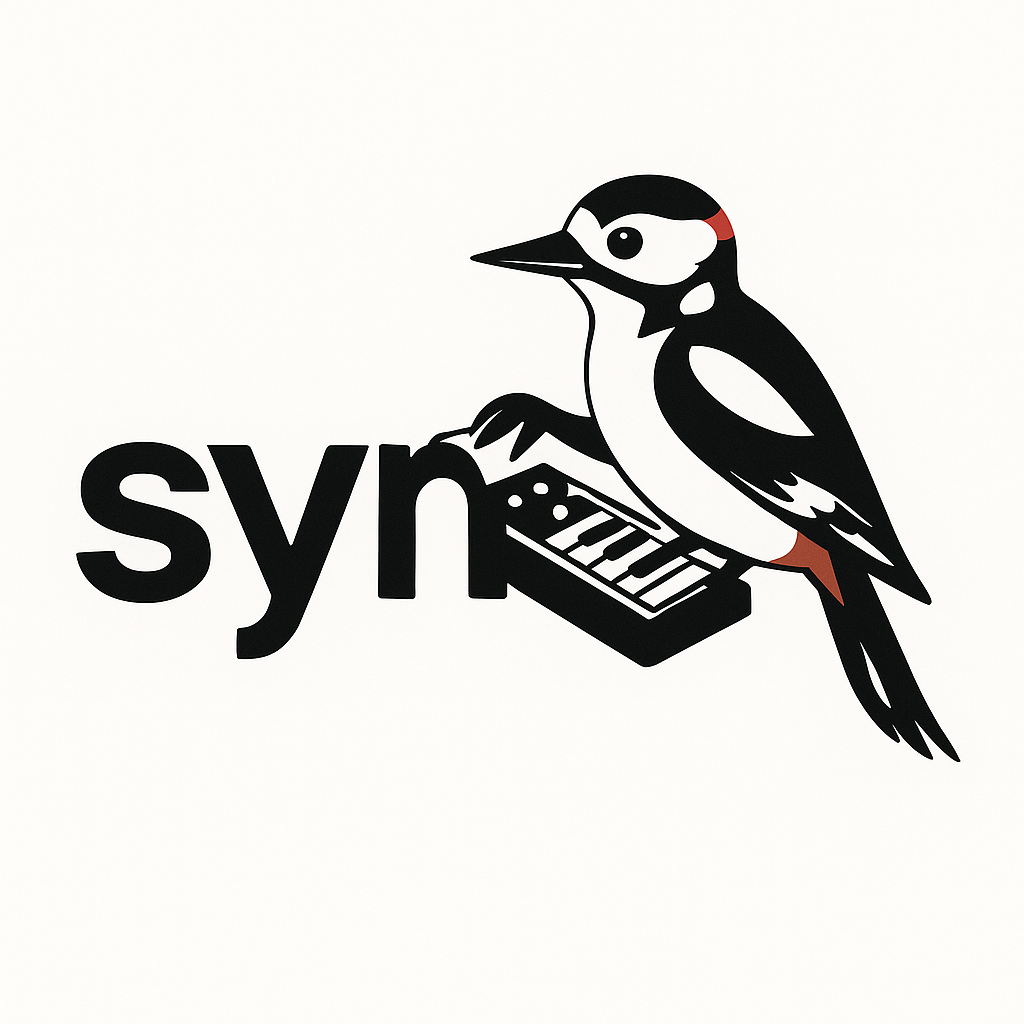
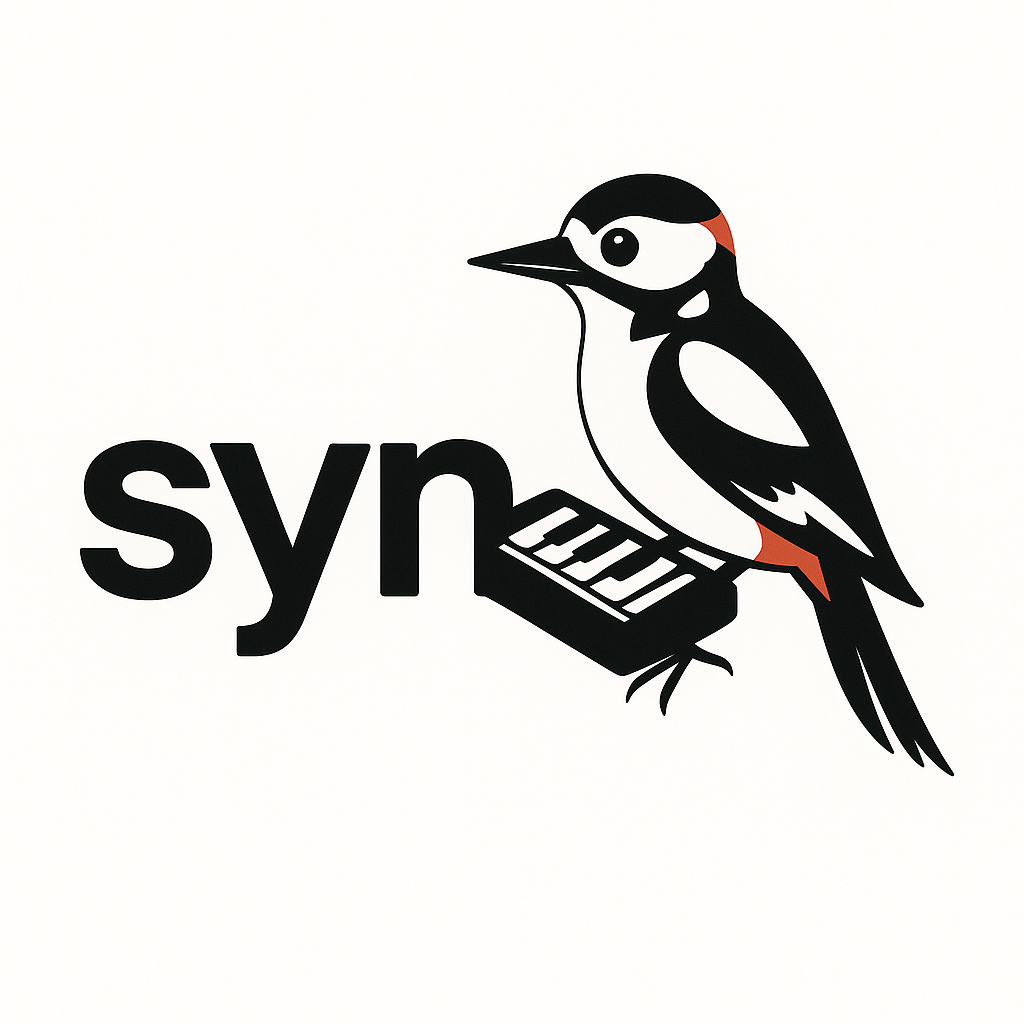
update readme

diff --git a/README.md b/README.md
@@ -6,15 +6,19 @@
 [![Pytorch](https://img.shields.io/badge/PyTorch-EE4C2C?style=for-the-badge&logo=pytorch&logoColor=white)](https://neovim.io)
 
 <img alt="syntikka" height="280" src="/assets/syntikka.png" />
+**A minimalistic logo for "syntikka", featuring the bold text "syn" alongside a stylized great spotted woodpecker playing a small synthesizer. -GPT4.0o**
 </div>
 
 Syntikka is a VAE (Variational Autoencoder) based synthetic data generation
-toolkit used to generate synthetic heterogeneous tabular data that mimics the
+tool used to generate synthetic heterogeneous tabular data that mimics the
 statistical properties of the training data. It is a work in progress project
-that was founded during working on my Master's thesis. It is not a production-proof
+that was started for my Master's thesis. It is not a production-proof
 tool and should be used with caution especially when working with sensitive data.
-Currently it lacks features to robustly prevent sensitive information leaking
-to the synthetic data from the original training data.
+Currently it lacks features to robustly prevent sensitive information from leaking
+to the synthetic data from the original training data. Syntikka manages to capture the
+distributional features and cross-variable dependencies across the training dataset
+quite well. It is useful for generating mock-up data for development or for generating
+more data from a smaller subset of data.
 
 ## MLflow
 
